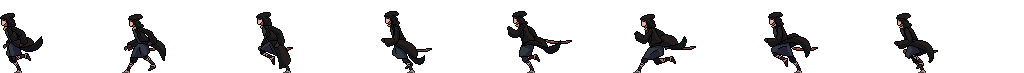
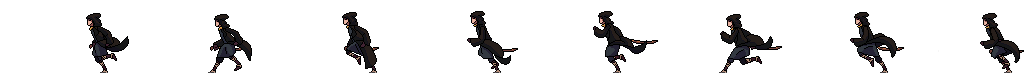
Hibotx finale

diff --git a/phaser_base_3_niveaux/src/index.js b/phaser_base_3_niveaux/src/index.js
@@ -160,20 +160,19 @@ this.load.tilemapTiledJSON("carte", "src/assets/map.json");
    this.load.image("bullet_chaleur", "src/assets/bullet_chaleur.png");
 
    this.load.spritesheet("img_perso", "src/assets/Idle.png", {
-    spacing: 46,
-    frameWidth: 82,
+
+    frameWidth: 128,
     frameHeight: 73,
     
   }); 
-  this.load.spritesheet("gauche", "src/assets/Run2.png", {
-    frameWidth: 80,
+  this.load.spritesheet("gauche", "src/assets/RunG.png", {
+    frameWidth: 128,
     frameHeight: 70,
-    spacing: 48
+    
   }); 
   this.load.spritesheet("droite", "src/assets/Run.png", {
-    frameWidth: 80,
+    frameWidth: 128,
     frameHeight: 70,
-    spacing: 48
   }); 
 }
 
@@ -288,21 +287,21 @@ function update() {
   if (clavier.right.isDown) {
     player.setVelocityX(220);
     player.anims.play('anim_tourne_droite', true); 
-    player.body.setSize(50, 70);
-    player.body.setOffset(35, 0);
+    player.body.setSize(50, 67);
+    player.body.setOffset(32, 5);
     player.direction = 'right';  // Mise à jour de la direction
   } 
   else if (clavier.left.isDown) {
     player.setVelocityX(-220);
     player.anims.play('anim_tourne_gauche', true); 
-    player.body.setSize(50, 70);
-    player.body.setOffset(0, 0);   
+    player.body.setSize(50, 67);
+    player.body.setOffset(45, 5);   
     player.direction = 'left';  // Mise à jour de la direction
   } else {
     player.setVelocityX(0); 
     player.anims.play('anim_face', true); 
-    player.body.setSize(50, 70);
-    player.body.setOffset(35, 0);
+    player.body.setSize(50, 67);
+    player.body.setOffset(35, 5);
   } 
   if (clavier.up.isDown && player.body.blocked.down) {
     player.setVelocityY(-300);
